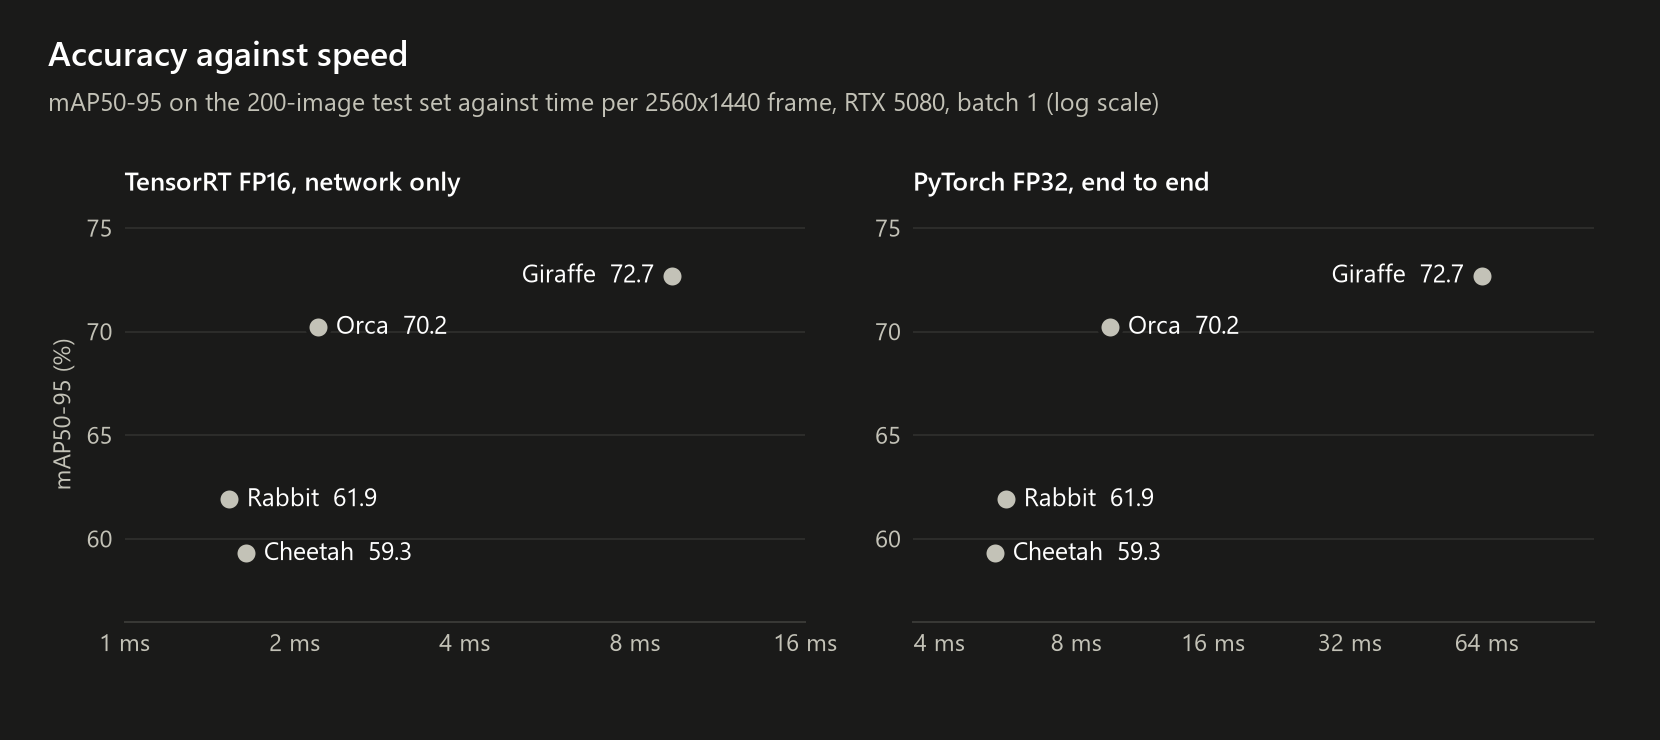
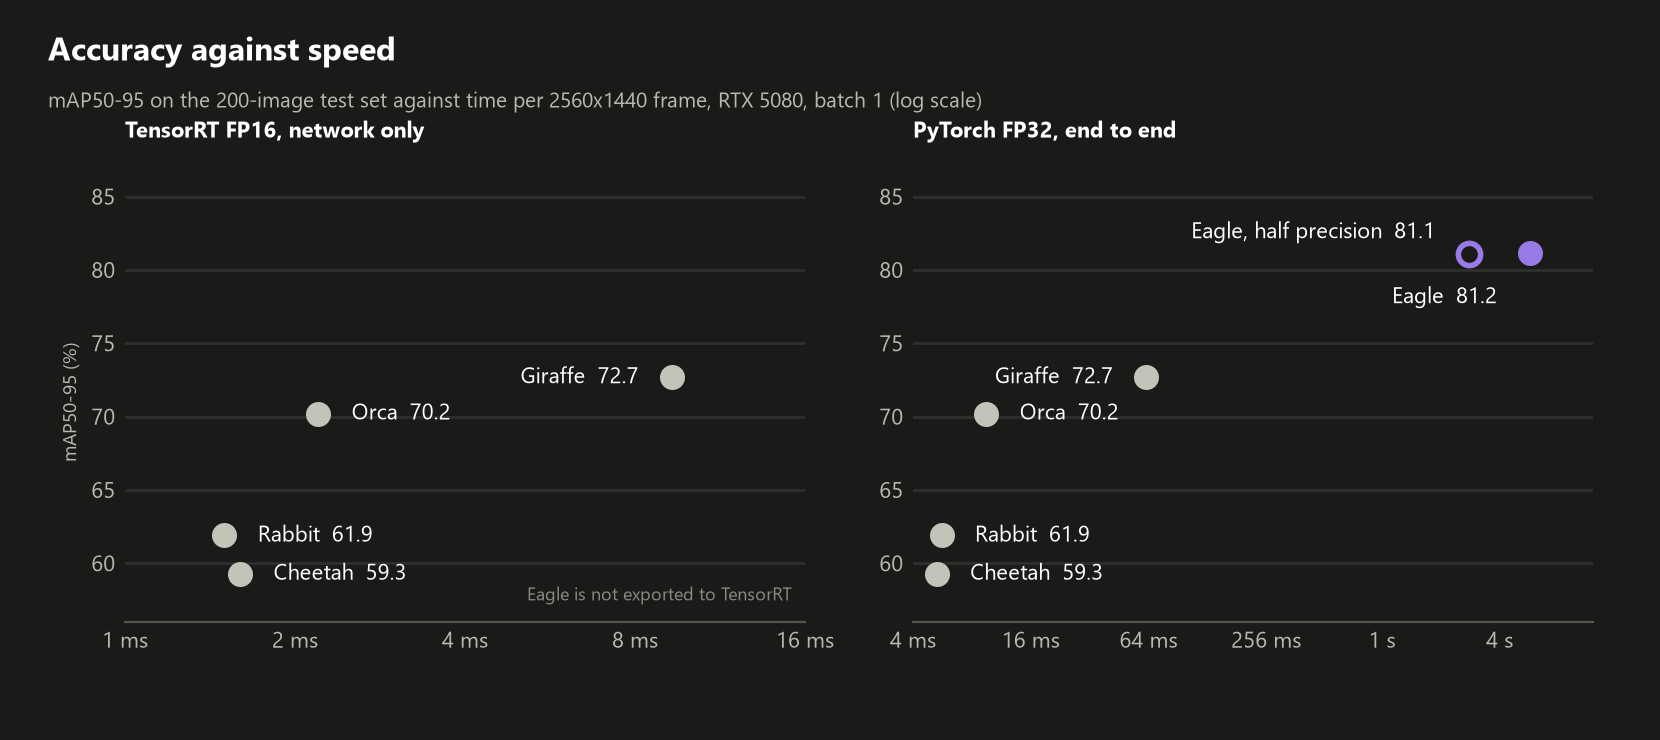
Eagle redo

diff --git a/README.md b/README.md
@@ -40,7 +40,7 @@ Try the models without installing anything: drop a screenshot into the [online d
 
 <picture>
   <source media="(prefers-color-scheme: dark)" srcset="assets/performance-dark.png">
-  <img width="100%" src="assets/performance.png" alt="mAP50-95 against time per frame for Cheetah, Rabbit, Orca and Giraffe, with TensorRT FP16 and PyTorch FP32">
+  <img width="100%" src="assets/performance.png" alt="mAP50-95 against time per frame for Cheetah, Rabbit, Orca, Giraffe and Eagle, with TensorRT FP16 and PyTorch FP32">
 </picture>
 
 ## 🎮 What you can build
@@ -254,10 +254,10 @@ The settings are in [`eagle/config.json`](eagle/config.json) and the code is in 
 
 <picture>
   <source media="(prefers-color-scheme: dark)" srcset="assets/size-ap-dark.png">
-  <img width="100%" src="assets/size-ap.png" alt="AP50-95 by character size for the four models">
+  <img width="100%" src="assets/size-ap.png" alt="AP50-95 by character size for Cheetah, Rabbit, Orca, Giraffe and Eagle">
 </picture>
 
-The chart shows the four single models; Eagle is in the table. Size is the longest side of a character's bounding box at 1536 input. Values are AP50-95 (%), scored from `model.predict` output.
+Size is the longest side of a character's bounding box at 1536 input. Values are AP50-95 (%), scored from `model.predict` output.
 
 | Size | under 16 px | 16 to 32 px | 32 to 64 px | 64 to 128 px | 128 px and up |
 |---|---|---|---|---|---|
@@ -272,11 +272,11 @@ Of the single models, Orca finds small and mid-size characters best, and Giraffe
 
 </details>
 
-<details open><summary>The four models on one frame</summary>
+<details open><summary>The five models on one frame</summary>
 
-<img width="100%" src="assets/compare.jpg" alt="Cheetah, Rabbit, Orca and Giraffe on the same test frame with far-away characters">
+<img width="100%" src="assets/compare.jpg" alt="Cheetah, Rabbit, Orca, Giraffe and Eagle on the same test frame with far-away characters">
 
-A held-out test frame with far-away characters at confidence 0.4. The nano models miss some of the smallest players; Orca finds all nine.
+A held-out test frame with far-away characters at confidence 0.4. The nano models miss some of the smallest players. Orca finds all nine, while Giraffe and Eagle each miss one of the tiniest ones, so a bigger model is not better on every single frame.
 
 </details>
 
@@ -287,7 +287,7 @@ A held-out test frame with far-away characters at confidence 0.4. The nano model
   <img width="100%" src="assets/input-size.png" alt="mAP50-95 at input widths from 640 to 1536 for the four models">
 </picture>
 
-mAP50-95 (%) when the frame is shrunk to a smaller input, without retraining. YOLO inputs are 16:9 (for example 1024x576); Giraffe's are square.
+mAP50-95 (%) when the frame is shrunk to a smaller input, without retraining. Eagle is not included: it already runs each model at several fixed sizes. YOLO inputs are 16:9 (for example 1024x576); Giraffe's are square.
 
 | Input width | 1536 | 1280 | 1024 | 768 | 640 |
 |---|---|---|---|---|---|
@@ -306,7 +306,7 @@ Measured with `model.predict`, which reads up to about 1 point below `yolo val` 
 
 1. **Collect.** Gameplay frames come from public videos and screenshots. Frames are screened automatically for non-gameplay and inappropriate content, then reviewed by eye before use.
 2. **Hand-label.** A core set is labeled by hand following the [Labeling Specification](#-labeling-specification). Each box is checked for tightness, not only for presence.
-3. **Auto-label.** Additional frames are labeled by a stronger offline ensemble. Only high-confidence boxes are kept, and a sample is checked by eye.
+3. **Auto-label.** Additional frames are labeled by a stronger offline ensemble (the one released as [Eagle](#eagle-details)). Only high-confidence boxes are kept, and a sample is checked by eye.
 4. **Train.** YOLO26 (nano and small) and RF-DETR (Small) start from COCO weights and train at high input resolution (1536). Optimizer and learning rate are set explicitly in every run.
 5. **Average.** Released weights average the checkpoints of one training run over a window of epochs. The window is chosen on a validation set that is separate from the test set.
 6. **Evaluate.** Models are scored on the held-out test set by mAP50-95, mAP50 and recall, overall and by character size. Speed is measured on an RTX 5080 at batch 1.
@@ -348,13 +348,14 @@ Set `optimizer` explicitly. The `auto` setting selects different optimizers depe
 | Sep to Oct 2026 | Training moved to a larger, deduplicated dataset with a session-grouped validation split, so validation scores stop rewarding memorized scenes. |
 | Oct 2026 | Checkpoint averaging adopted for every release. It gave the largest reliable gain per unit of effort. |
 | Oct 2026 | RF-DETR added as a fourth model (Giraffe), the most accurate model in the lineup. |
+| Oct 2026 | The ensemble behind Eagle built from the best models, tiles, zoom and box tightening: 80.8% mAP50-95 on the test set in the first version, 81.2% in the current one. |
 | Oct 2026 | Automatic labels from the stronger ensemble added as training data; gains were confirmed on the held-out test set. |
 | Oct 2026 | TensorRT FP16 deployment measured for every model. Accuracy loss from FP16 was below 0.002 mAP50-95. |
 | Late Oct 2026 | Orca retrained on the larger dataset and re-published. |
 | Nov 2026 | Additional test set adopted for model comparisons. |
 | Nov 2026 | Synthetic training frames generated in Roblox Studio tested: a small gain when mixed with real data, none on their own. |
 | Nov 2026 | New README visuals: tracking demo, example grid, model comparison and failure cases. |
-| Nov 2026 | Eagle added: an ensemble of five models, about 81% mAP50-95 on the test set, for labeling and offline use. |
+| Nov 2026 | Eagle released: five models in one detector, about 81% mAP50-95 on the test set, 5.7 s per frame (2.8 s in half precision), for labeling and offline use. README charts and comparison updated. |
 | Nov 2026 | Online demo on Hugging Face: Orca, Rabbit and Cheetah run in the browser with ONNX Runtime Web. |
 
 ## 📝 Labeling Specification
